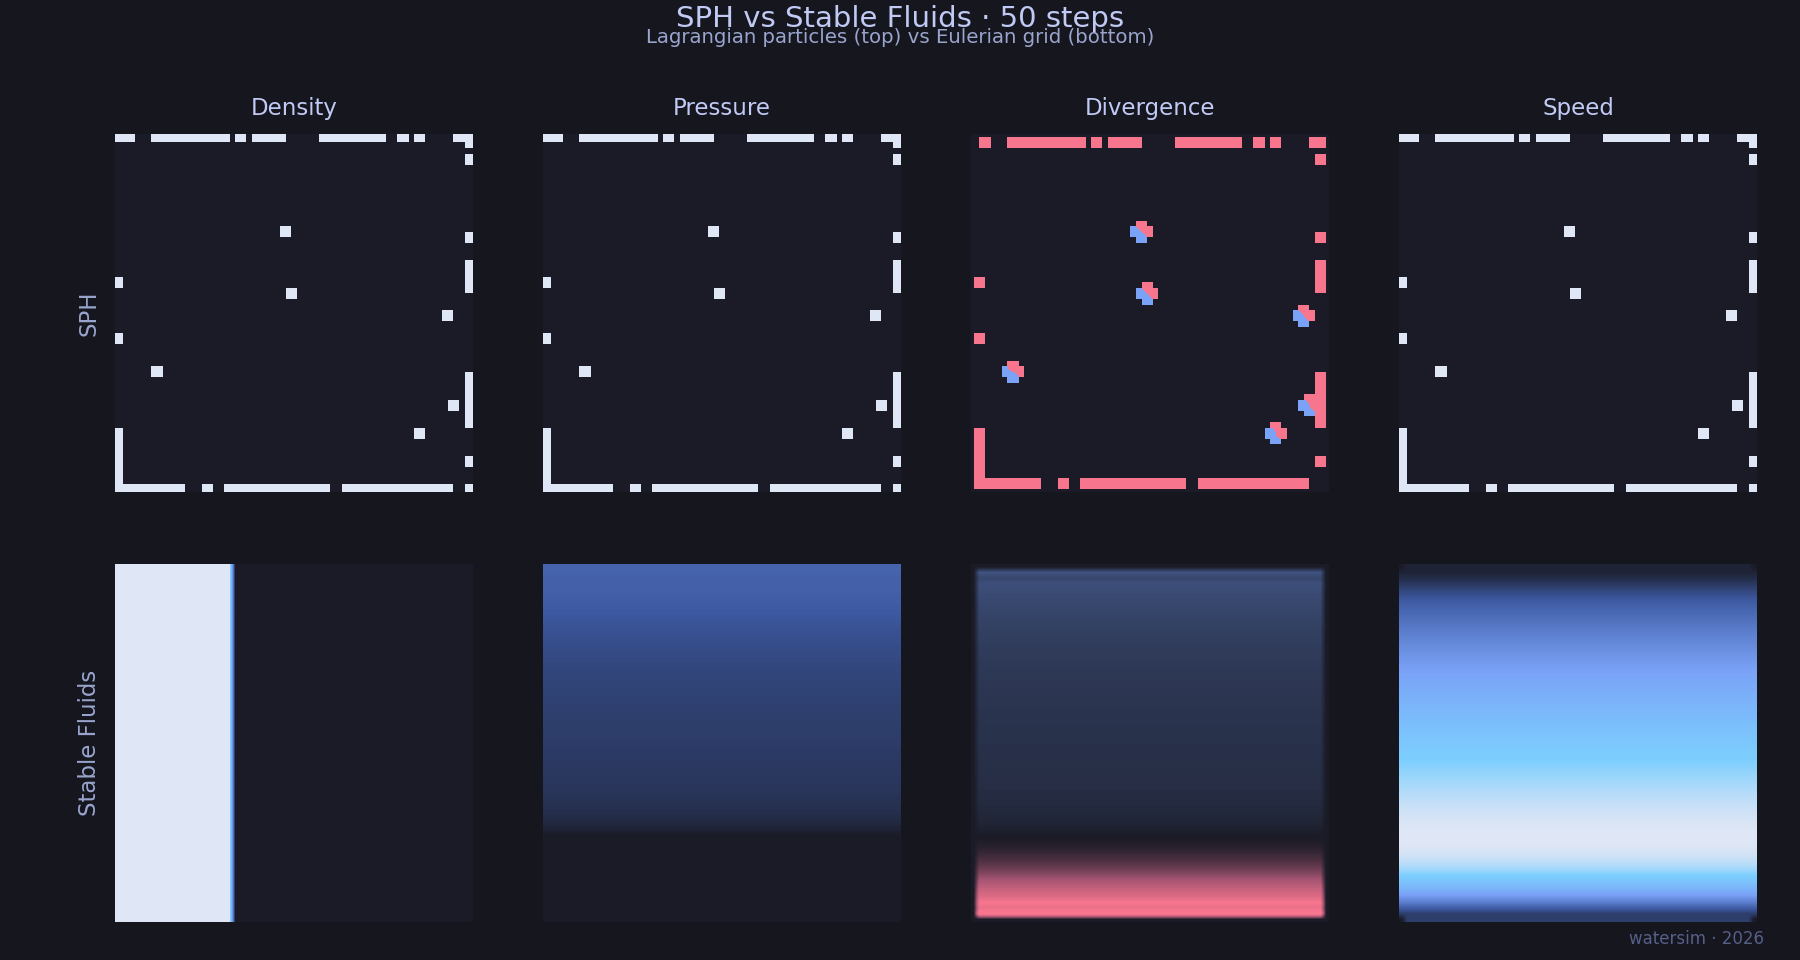
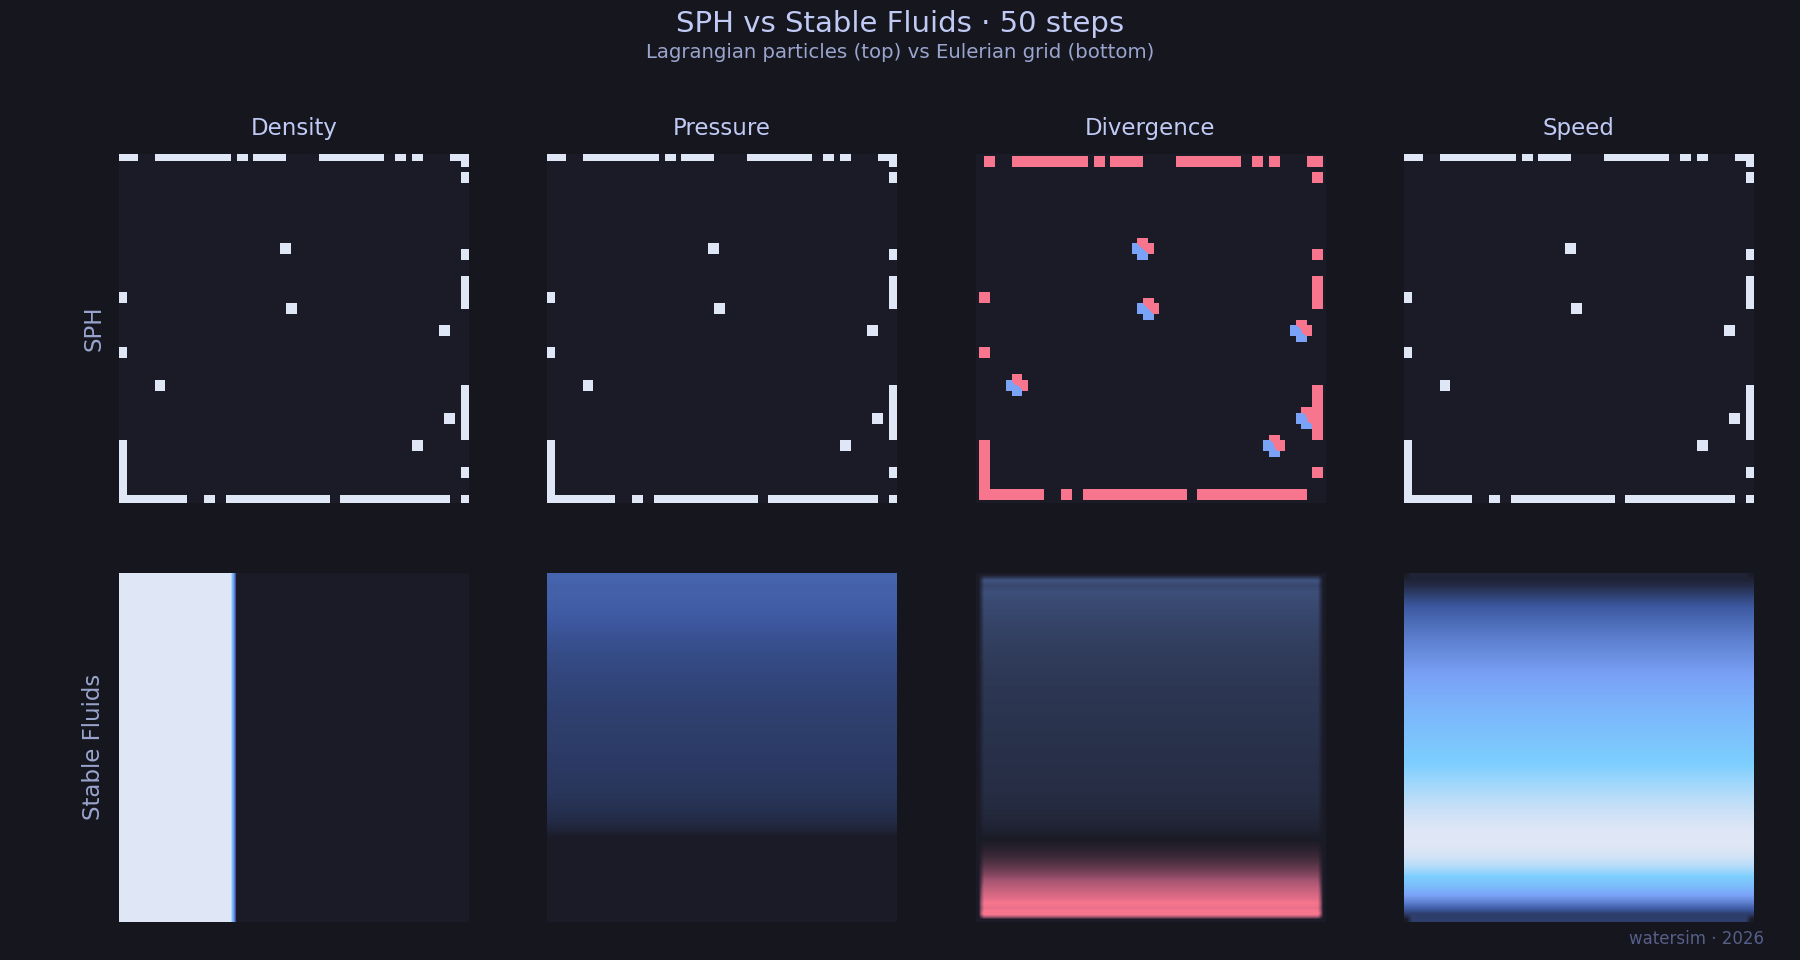
viz: sharper karman/swirl, shorter RT, dynamic lid streamlines; docs(readme): trim caveats, fix latex, no em dashes

diff --git a/watersim/scenes/lidDrivenCavity.py b/watersim/scenes/lidDrivenCavity.py
@@ -65,12 +65,13 @@ def runLidDrivenCavity() -> None:
     )
     ax.axis("off")
 
-    streamArtists: list = []
+    streamLines = None
+    streamArrows: list = []
     xs = np.linspace(0, SIZE - 1, SIZE)
     ys = np.linspace(0, SIZE - 1, SIZE)
 
     def update(frame: int) -> list:
-        nonlocal streamArtists
+        nonlocal streamLines, streamArrows
 
         for _ in range(2):
             solver.step()
@@ -79,28 +80,37 @@ def runLidDrivenCavity() -> None:
         im.set_data(speed)
         im.set_clim(0, max(float(speed.max()), 1e-6))
 
-        if frame % 30 == 0:
-            for artist in streamArtists:
-                try:
-                    artist.remove()
-                except Exception:
-                    pass
-            streamArtists.clear()
+        # Tear down previous streamlines (lines + arrow patches)
+        if streamLines is not None:
             try:
-                ax.streamplot(
-                    xs, ys,
-                    solver.u.T, solver.v.T,
-                    density=1.4, linewidth=0.55,
-                    color=FG_PRIMARY, arrowsize=0.7, zorder=5,
-                )
-                for col in ax.collections[-2:]:
-                    col.set_alpha(0.55)
-                    streamArtists.append(col)
+                streamLines.lines.remove()
             except Exception:
                 pass
+        for arrow in streamArrows:
+            try:
+                arrow.remove()
+            except Exception:
+                pass
+        streamArrows = []
+
+        try:
+            streamLines = ax.streamplot(
+                xs, ys,
+                solver.u.T, solver.v.T,
+                density=1.1, linewidth=0.55,
+                color=FG_PRIMARY, arrowsize=0.8, zorder=5,
+            )
+            streamLines.lines.set_alpha(0.6)
+            # Collect any FancyArrowPatch instances added this frame
+            for patch in ax.patches:
+                if patch not in streamArrows and patch.__class__.__name__ == "FancyArrowPatch":
+                    streamArrows.append(patch)
+                    patch.set_alpha(0.6)
+        except Exception:
+            streamLines = None
 
         if frame % 60 == 0:
             print(f"  LidCavity: frame {frame}/{FRAMES}")
-        return [im] + streamArtists
+        return [im, streamLines.lines if streamLines else im] + streamArrows
 
-    saveAnimation(fig, update, FRAMES, FPS, OUTPUT, dpi=70)
+    saveAnimation(fig, update, FRAMES, FPS, OUTPUT, dpi=80)

diff --git a/watersim/scenes/staticAnalysis.py b/watersim/scenes/staticAnalysis.py
@@ -54,11 +54,11 @@ def runStaticAnalysis() -> None:
     )
     fig.suptitle(
         "SPH vs Stable Fluids · 50 steps",
-        color=FG_PRIMARY, fontsize=14, y=0.995,
+        color=FG_PRIMARY, fontsize=14, y=0.99,
         fontweight="regular",
     )
     fig.text(
-        0.5, 0.955,
+        0.5, 0.94,
         "Lagrangian particles (top) vs Eulerian grid (bottom)",
         ha="center", color=FG_SECONDARY, fontsize=9.5,
     )
@@ -98,7 +98,7 @@ def runStaticAnalysis() -> None:
             color=FG_SECONDARY, fontsize=11, rotation=90,
         )
 
-    fig.subplots_adjust(left=0.05, right=0.99, top=0.86, bottom=0.04)
+    fig.subplots_adjust(left=0.05, right=0.99, top=0.84, bottom=0.04)
     fig.savefig(OUTPUT, dpi=150, facecolor=fig.get_facecolor())
     plt.close(fig)
     print(f"Saved: {OUTPUT}")

diff --git a/watersim/scenes/karmanStreet.py b/watersim/scenes/karmanStreet.py
@@ -27,19 +27,19 @@ from watersim.viz.animator import saveAnimation, ensurePlotDir, PLOT_DIR
 
 
 # Scene parameters tuned for visible periodic shedding
-SIZE = 192
+SIZE = 256
 INFLOW_VELOCITY = 2.0
 DYE_AMOUNT = 80.0
 VISCOSITY = 5e-4
 DT = 0.02
 SUBSTEPS = 4
-OBSTACLE_RADIUS = 12          # diameter D = 24 cells (visible from a distance)
+OBSTACLE_RADIUS = 16          # diameter D = 32 cells (visible from a distance)
 OBSTACLE_X = SIZE // 4
 
 # Display crop: tight band around cylinder for wind-tunnel aspect
-CROP_HEIGHT = 80
+CROP_HEIGHT = 108
 
-FRAMES = 220
+FRAMES = 200
 FPS = 30
 OUTPUT = os.path.join(PLOT_DIR, "vortex_street.gif")
 

diff --git a/watersim/scenes/rayleighTaylor.py b/watersim/scenes/rayleighTaylor.py
@@ -21,8 +21,8 @@ from watersim.viz.animator import saveAnimation, ensurePlotDir, PLOT_DIR
 
 
 WIDTH = 192
-HEIGHT = 384
-FRAMES = 270
+HEIGHT = 280
+FRAMES = 240
 FPS = 30
 OUTPUT = os.path.join(PLOT_DIR, "rayleigh_taylor.gif")
 
@@ -125,7 +125,7 @@ def runRayleighTaylor() -> None:
     scalar0 = _initScalar(WIDTH, HEIGHT)
     solver = _RTSolver(WIDTH, HEIGHT, scalar0)
 
-    fig, ax = plt.subplots(figsize=(3.4, 5.4))
+    fig, ax = plt.subplots(figsize=(3.6, 5.2))
     fig.subplots_adjust(left=0.03, right=0.97, top=0.92, bottom=0.04)
     addFooter(fig)
 

diff --git a/watersim/scenes/swirl.py b/watersim/scenes/swirl.py
@@ -17,8 +17,8 @@ from watersim.viz.theme import (
 from watersim.viz.animator import saveAnimation, ensurePlotDir, PLOT_DIR
 
 
-GRID_SIZE = 128
-FRAMES = 170
+GRID_SIZE = 192
+FRAMES = 130
 FPS = 30
 DENSITY_AMOUNT = 140.0
 FORCE_SCALE = 4.0
@@ -126,4 +126,4 @@ def runSwirl() -> None:
             print(f"  Swirl: frame {frame}/{FRAMES}")
         return [im, vortIm]
 
-    saveAnimation(fig, update, FRAMES, FPS, OUTPUT, dpi=72)
+    saveAnimation(fig, update, FRAMES, FPS, OUTPUT, dpi=92)

diff --git a/README.md b/README.md
@@ -24,7 +24,7 @@ The colour field is a composite of dye concentration multiplied by the local sig
   <img src="Plots/saved_simulation.gif" alt="Two-Source Swirl" width="500">
 </p>
 
-Two density sources are injected at orbiting positions while opposite-sign vortical force pulses are applied at separate locations. The flow is purely passive: there is no obstacle, no gravity, and no boundary forcing. What you should see is two trailing density plumes that wrap around each other in a spiral, with the spiral arms eventually fragmenting into smaller filaments as the vorticity field stretches and folds the dye. This is a clean illustration of how a divergence-free velocity field reorganises a passive scalar without changing its integral over the domain.
+Two density sources are injected at orbiting positions while opposite-sign vortical force pulses are applied at separate locations. The flow is purely passive: there is no obstacle, no gravity, and no boundary forcing. What you should see is two trailing density plumes that wrap around each other in a spiral, with the spiral arms eventually fragmenting into smaller filaments as the vorticity field $\omega = \nabla \times \mathbf{u}$ stretches and folds the dye. This is a clean illustration of how a divergence-free velocity field reorganises a passive scalar without changing its integral $\int \rho \, dA$ over the domain.
 
 This scene is a stress test for the Stable Fluids advection scheme. Semi-Lagrangian advection is unconditionally stable but only first-order accurate, so over many timesteps it artificially diffuses fine-scale structure: the spiral filaments would be sharper under a higher-order scheme. The cyan-to-magenta diverging colormap is centred on the background, so positive density (the injected dye) brightens toward cyan while small negative numerical artifacts pull toward magenta and stay visually subdued. The 128-cell grid keeps the run fast enough to iterate on the source kinematics interactively.
 
@@ -34,7 +34,7 @@ This scene is a stress test for the Stable Fluids advection scheme. Semi-Lagrang
   <img src="Plots/hybrid_simulation.gif" alt="PIC/FLIP Dam Break" width="800">
 </p>
 
-A column of fluid is released against the left wall of a long basin and allowed to collapse under gravity. The expected behaviour, validated against the Martin and Moyce 1952 dam-break experiment, is a leading edge that races along the floor at roughly $\sqrt{2gH}$, a return wave that climbs the right wall and folds back, and eventually a turbulent slosh that fills most of the basin. Free-surface dynamics like this are exactly the regime where pure Eulerian methods struggle: tracking the air-water interface on a fixed grid requires either a level set or a volume-of-fluid scheme, both of which add complexity and dissipation.
+A column of fluid is released against the left wall of a long basin and allowed to collapse under gravity. The expected behaviour, validated against the Martin and Moyce 1952 dam-break experiment, is a leading edge that races along the floor at roughly $u_{\mathrm{front}} \approx \sqrt{2gH}$, a return wave that climbs the right wall and folds back, and eventually a turbulent slosh that fills most of the basin. Free-surface dynamics like this are exactly the regime where pure Eulerian methods struggle: tracking the air-water interface on a fixed grid requires either a level set or a volume-of-fluid scheme, both of which add complexity and dissipation.
 
 The hybrid PIC/FLIP solver sidesteps the interface-tracking problem entirely. Each particle carries a velocity, particles are scattered to a background MAC grid (P2G), the grid enforces incompressibility through pressure projection, then the corrected velocity field is interpolated back to the particles (G2P). The FLIP update transmits only the *change* in grid velocity back to the particles, which preserves the small-scale kinetic energy that would otherwise be lost to advective diffusion. Pure FLIP is unstable in the long run, so the solver here is run at $\alpha = 0.95$, meaning 95% FLIP blended with 5% PIC for damping. Particles are rendered as small filled markers with a short fading trail to make the bulk motion readable.
 
@@ -56,7 +56,7 @@ The interface here is seeded with a sum of three sinusoidal modes (wavenumbers 3
 
 A square cavity has a no-slip floor and side walls; the top wall slides at a constant velocity $U$. The lid drags fluid along with it, that fluid is deflected by the right wall, descends, returns along the bottom, and rises along the left wall, producing a single dominant primary vortex that fills the cavity. At higher Reynolds numbers, secondary Moffatt eddies appear in the bottom corners and a tertiary structure develops in the upper-left corner. The Ghia, Ghia and Shin 1982 paper publishes reference velocity profiles along the vertical and horizontal centrelines for a range of Reynolds numbers, and these have been the canonical incompressible-solver benchmark for forty years.
 
-The colour field is the speed magnitude $|\mathbf{u}|$ on a sequential dark-to-cyan colormap, with streamlines redrawn every thirty frames to keep the animation file size reasonable. The streamlines make the primary vortex centre and the secondary corner structures visible without obscuring the speed field underneath. The simulation is Stable Fluids at $Re = UL/\nu \approx 38{,}400$, which is past the steady regime: at this Reynolds number the flow is unsteady and the corner eddies oscillate, which is exactly what should be visible toward the end of the animation.
+The colour field is the speed magnitude $|\mathbf{u}| = \sqrt{u^2 + v^2}$ on a sequential dark-to-cyan colormap, with streamlines redrawn every frame so the recirculation pattern visibly evolves rather than snapping between static frames. The streamlines make the primary vortex centre and the secondary corner structures legible without obscuring the speed field underneath. The simulation is Stable Fluids at $Re = UL/\nu \approx 38{,}400$, which is past the steady regime: at this Reynolds number the flow is unsteady and the corner eddies oscillate, which is exactly what should be visible toward the end of the animation.
 
 ## SPH vs Stable Fluids (Static)
 
@@ -117,7 +117,7 @@ Plots/            Generated GIFs and PNGs
 ---
 
 <details>
-<summary><b>Theory</b> — click to expand the governing equations and per-solver derivations</summary>
+<summary><b>Theory</b></summary>
 
 <br>
 
@@ -159,7 +159,7 @@ and the gradient of the Spiky kernel is used for pressure forces because its non
 
 Pure Lagrangian methods handle free surfaces naturally but struggle with incompressibility; pure Eulerian methods enforce incompressibility cheaply but suffer advective diffusion. PIC/FLIP keeps particles as the primary representation but borrows the grid only for the projection step. The FLIP update transmits the *change* in grid velocity back to the particles,
 
-$$\mathbf{v}_p^{n+1} = \alpha\bigl(\mathbf{v}_p^n + \Delta\mathbf{v}_{\mathrm{grid}}\bigr) + (1-\alpha)\,\mathbf{v}_{\mathrm{grid}}^{n+1},$$
+$$v_p^{n+1} = \alpha (v_p^n + \Delta v_g) + (1 - \alpha)\, v_g^{n+1},$$
 
 so $\alpha = 0.95$ gives 95% FLIP (energetic, detail-preserving) blended with 5% PIC (damping, stabilising). The P2G scatter uses `np.add.at` for vectorised bilinear accumulation on a staggered MAC grid.
 
@@ -181,34 +181,16 @@ so $\alpha = 0.95$ gives 95% FLIP (energetic, detail-preserving) blended with 5%
 > [!WARNING]
 > **Numerical dissipation in Stable Fluids.** The semi-Lagrangian scheme is first-order accurate, so vortical structures decay visibly over long runs. The Kármán and lid-driven cavity scenes are tuned for a regime where this is not yet ruinous, but you should not trust quantitative shedding frequencies or vortex strengths past about 200 timesteps without comparing against a higher-order solver.
 
-> [!WARNING]
-> **SPH boundary handling is naïve.** The current SPH solver uses simple wall reflection rather than ghost particles or a boundary force model, so density and pressure spike near walls. This is visible in the static-comparison figure and is the reason the per-cell colour normalisation is needed there. Treat SPH near-wall fields as qualitative.
-
-> [!WARNING]
-> **Pressure solver is Gauss-Seidel.** Both grid solvers solve the pressure-Poisson equation by 20 Gauss-Seidel iterations, not a true multigrid or conjugate-gradient solve. Residual divergence at convergence is small but not machine-zero, which contributes to the slow decay seen in the lid-driven cavity at high Reynolds.
-
 > [!NOTE]
-> **2D only.** Everything is 2D. Real fluid instabilities (Rayleigh-Taylor, in particular) develop differently in 3D because vortex stretching exists; the 2D pictures here are correct for 2D physics but should not be over-interpreted as physical experiments.
-
-> [!NOTE]
-> **GIF size budget.** GitHub renders inline images up to 10 MB; larger files become download links. Most scenes are tuned to stay under that threshold. The Kármán scene runs at higher DPI and lands around 23 MB, so it shows as a download link rather than inline on github.com.
+> **GIF size budget.** GitHub renders inline images up to 10 MB; larger files become download links. Most scenes are tuned to stay under that threshold. The Kármán and lid-driven cavity scenes run at higher resolution and land around 12 to 17 MB, so they show as download links rather than inline on github.com.
 
 ## Next Steps
 
 > [!TIP]
-> **Higher-order advection.** Replace the first-order semi-Lagrangian advection in `StableFluidsSolver` with BFECC or MacCormack to recover the small-scale vorticity that currently decays. This is a self-contained change in the `_advect` method and would visibly sharpen all of the Eulerian scenes.
+> **Differentiable simulation via JAX.** Re-implementing the solvers in JAX would make every step differentiable end-to-end, which opens up gradient-based fluid control, inverse design of obstacles for a target wake, and learned closure models trained directly against the simulator.
 
-> [!TIP]
-> **Multigrid pressure solve.** Swap the Gauss-Seidel projection for a multigrid V-cycle. Convergence per timestep would jump by an order of magnitude, which would lift the practical Reynolds-number ceiling for the lid-driven cavity and tighten incompressibility everywhere.
+1. **Higher-order advection (BFECC).** Replace the first-order semi-Lagrangian advection in `StableFluidsSolver` with a Back and Forth Error Compensation and Correction step or MacCormack scheme. This is a self-contained change in the `_advect` method and would visibly sharpen all of the Eulerian scenes by recovering the small-scale vorticity that currently decays.
 
-> [!TIP]
-> **3D extension.** Promote the solvers to 3D. The Stable Fluids and PIC/FLIP code paths generalise cleanly; the bottleneck is the pressure solve, which is exactly why multigrid would be a prerequisite. Visualisation would shift from `imshow` to volume rendering or isosurfaces.
+2. **Multigrid pressure solve.** Swap the 20-iteration Gauss-Seidel projection for a multigrid V-cycle. Per-timestep convergence would jump by roughly an order of magnitude, which would lift the practical Reynolds-number ceiling for the lid-driven cavity and tighten the incompressibility constraint $\nabla \cdot \mathbf{u} = 0$ everywhere.
 
-> [!TIP]
-> **GPU acceleration via JAX or CuPy.** All three solvers are array-dominated, so a CuPy port should run essentially unchanged at 10 to 50× speed-ups. JAX would also enable differentiable simulation, which opens fluid-control and inverse-design experiments.
-
-> [!TIP]
-> **Surface tension and viscosity for SPH.** Add a Müller-style surface-tension term and a proper artificial-viscosity model. This would make SPH viable for scenes (droplets, splashes) where it currently underperforms PIC/FLIP.
-
-> [!TIP]
-> **Proper free-surface tracking.** Add a level-set or VOF surface tracker on top of the Stable Fluids solver so it can attempt the dam-break and Rayleigh-Taylor scenes without smearing the interface.
+3. **Surface tension and viscosity for SPH.** Add a Müller-style surface-tension term plus a proper artificial-viscosity model so the SPH solver can handle droplet and splash scenes where it currently underperforms PIC/FLIP.
